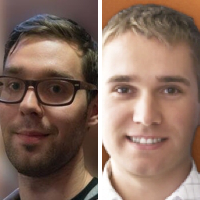
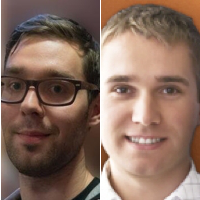
2px white line

diff --git a/app/services/pictures/mix_multiple_pictures.rb b/app/services/pictures/mix_multiple_pictures.rb
@@ -7,7 +7,7 @@ module Pictures
     end
 
     def convert_two
-      `convert -size 200x200 xc:white -alpha set -channel A -evaluate set 55% \\( #{next_picture} -gravity Center -crop 98x200+0+0 -repage 98x200+51+0 \\) -geometry -51x0 -composite \\( #{next_picture} -gravity Center -crop 98x200+0+0 -repage 98x200+51+0 \\) -geometry +51+0 -composite #{convert_url_to_path(dest_picture)}`
+      `convert -size 200x200 xc:white \\( #{next_picture} -gravity Center -crop 99x200+0+0 -repage 99x200+50.5+0 \\) -geometry -50.5x0 -composite \\( #{next_picture} -gravity Center -crop 99x200+0+0 -repage 99x200+50.5+0 \\) -geometry +50.5+0 -composite #{convert_url_to_path(dest_picture)}`
     end
 
     def next_picture
